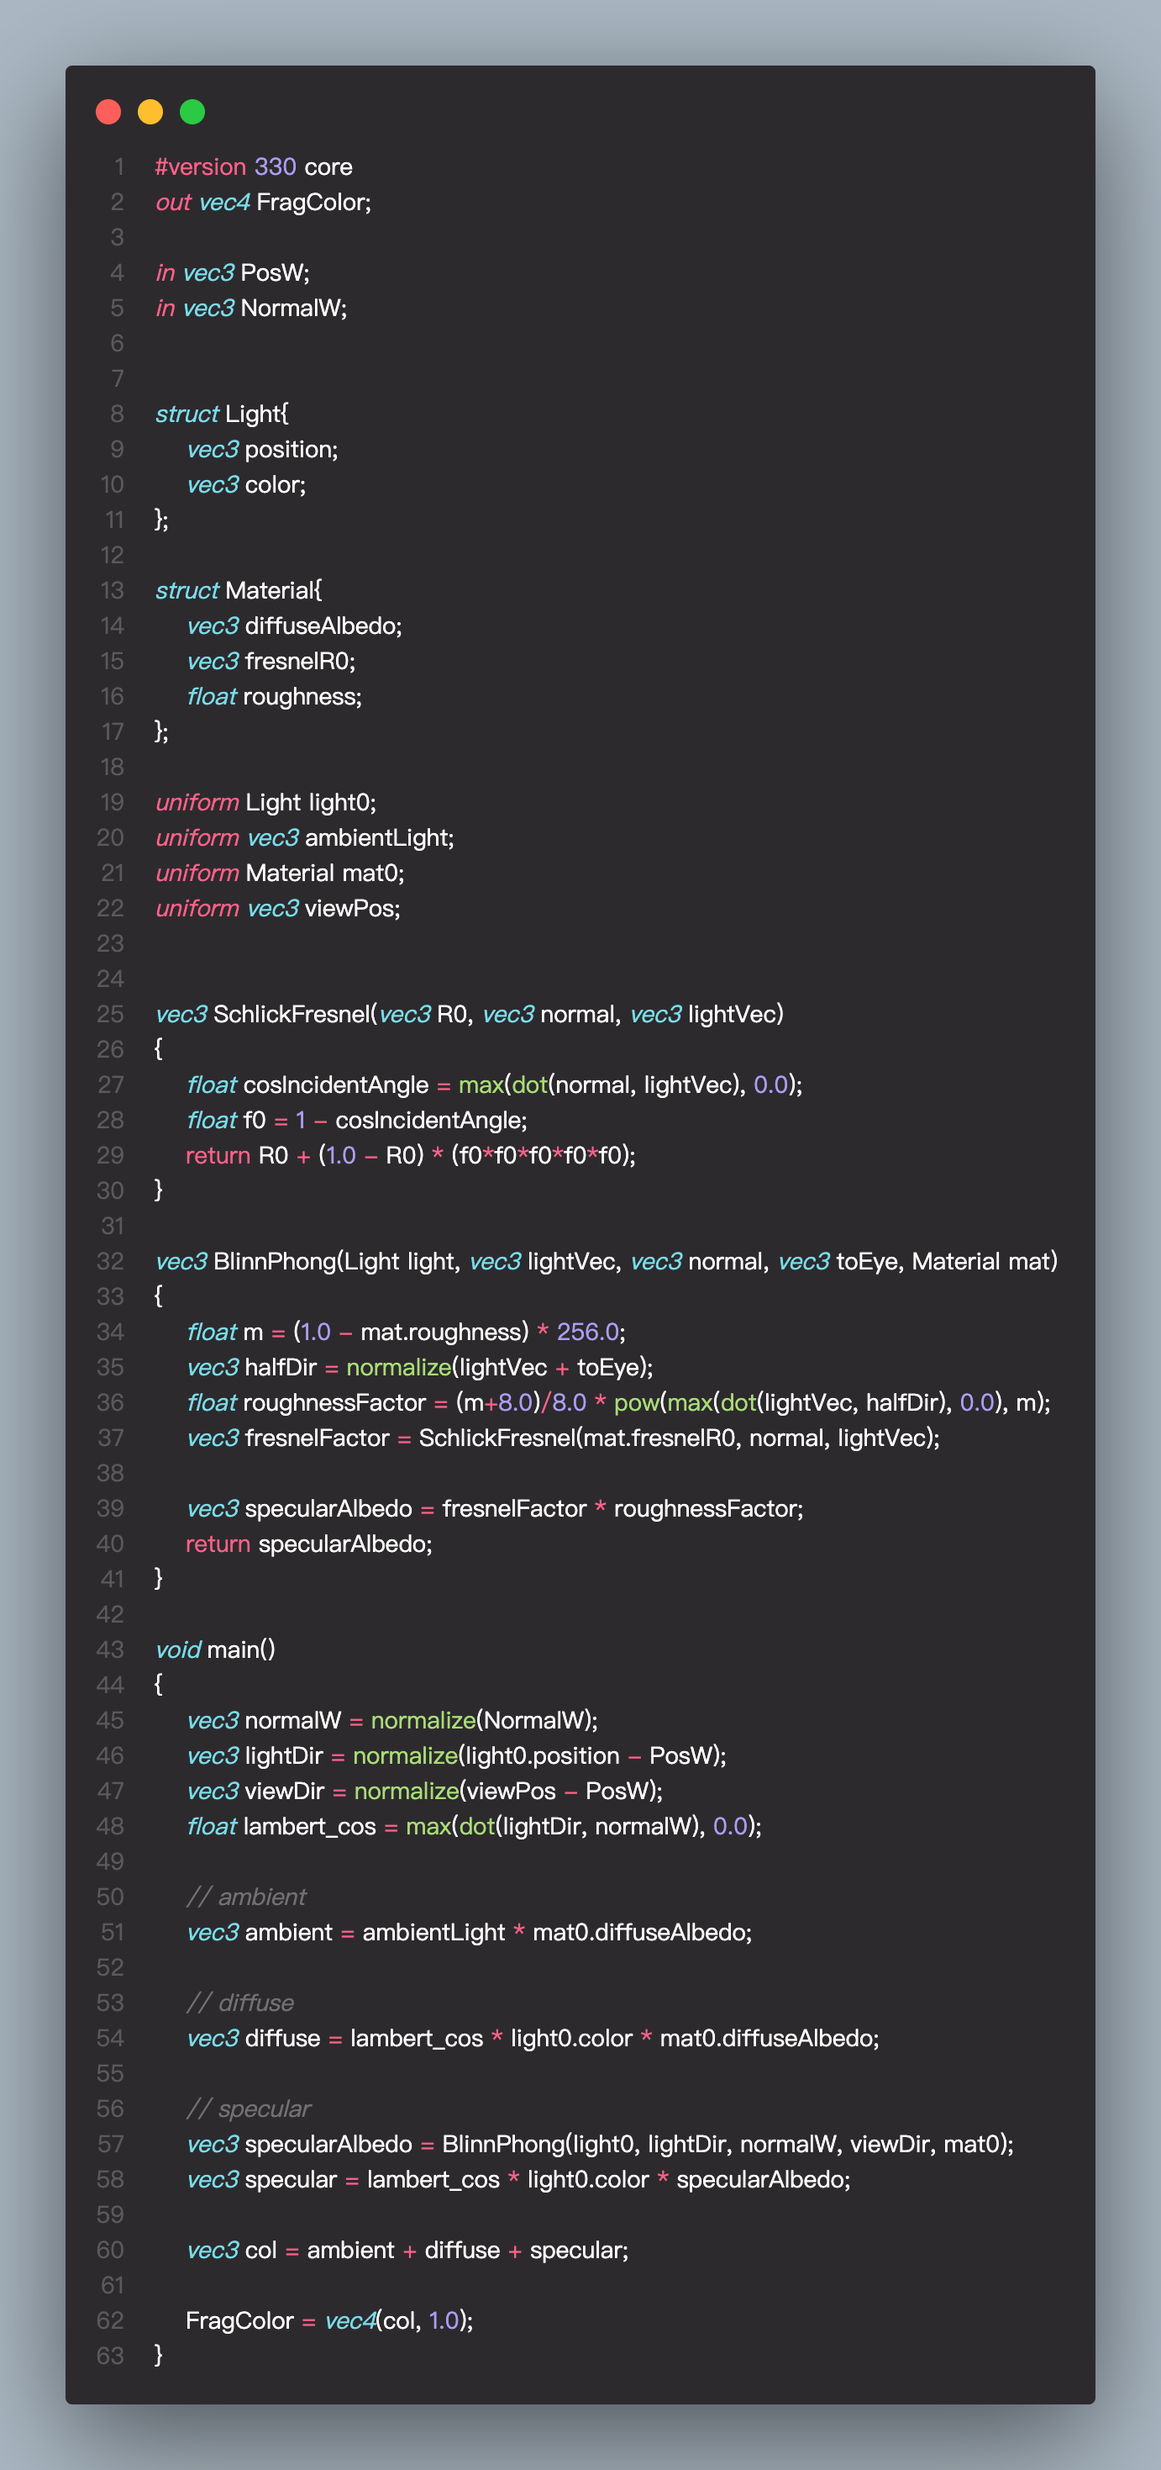
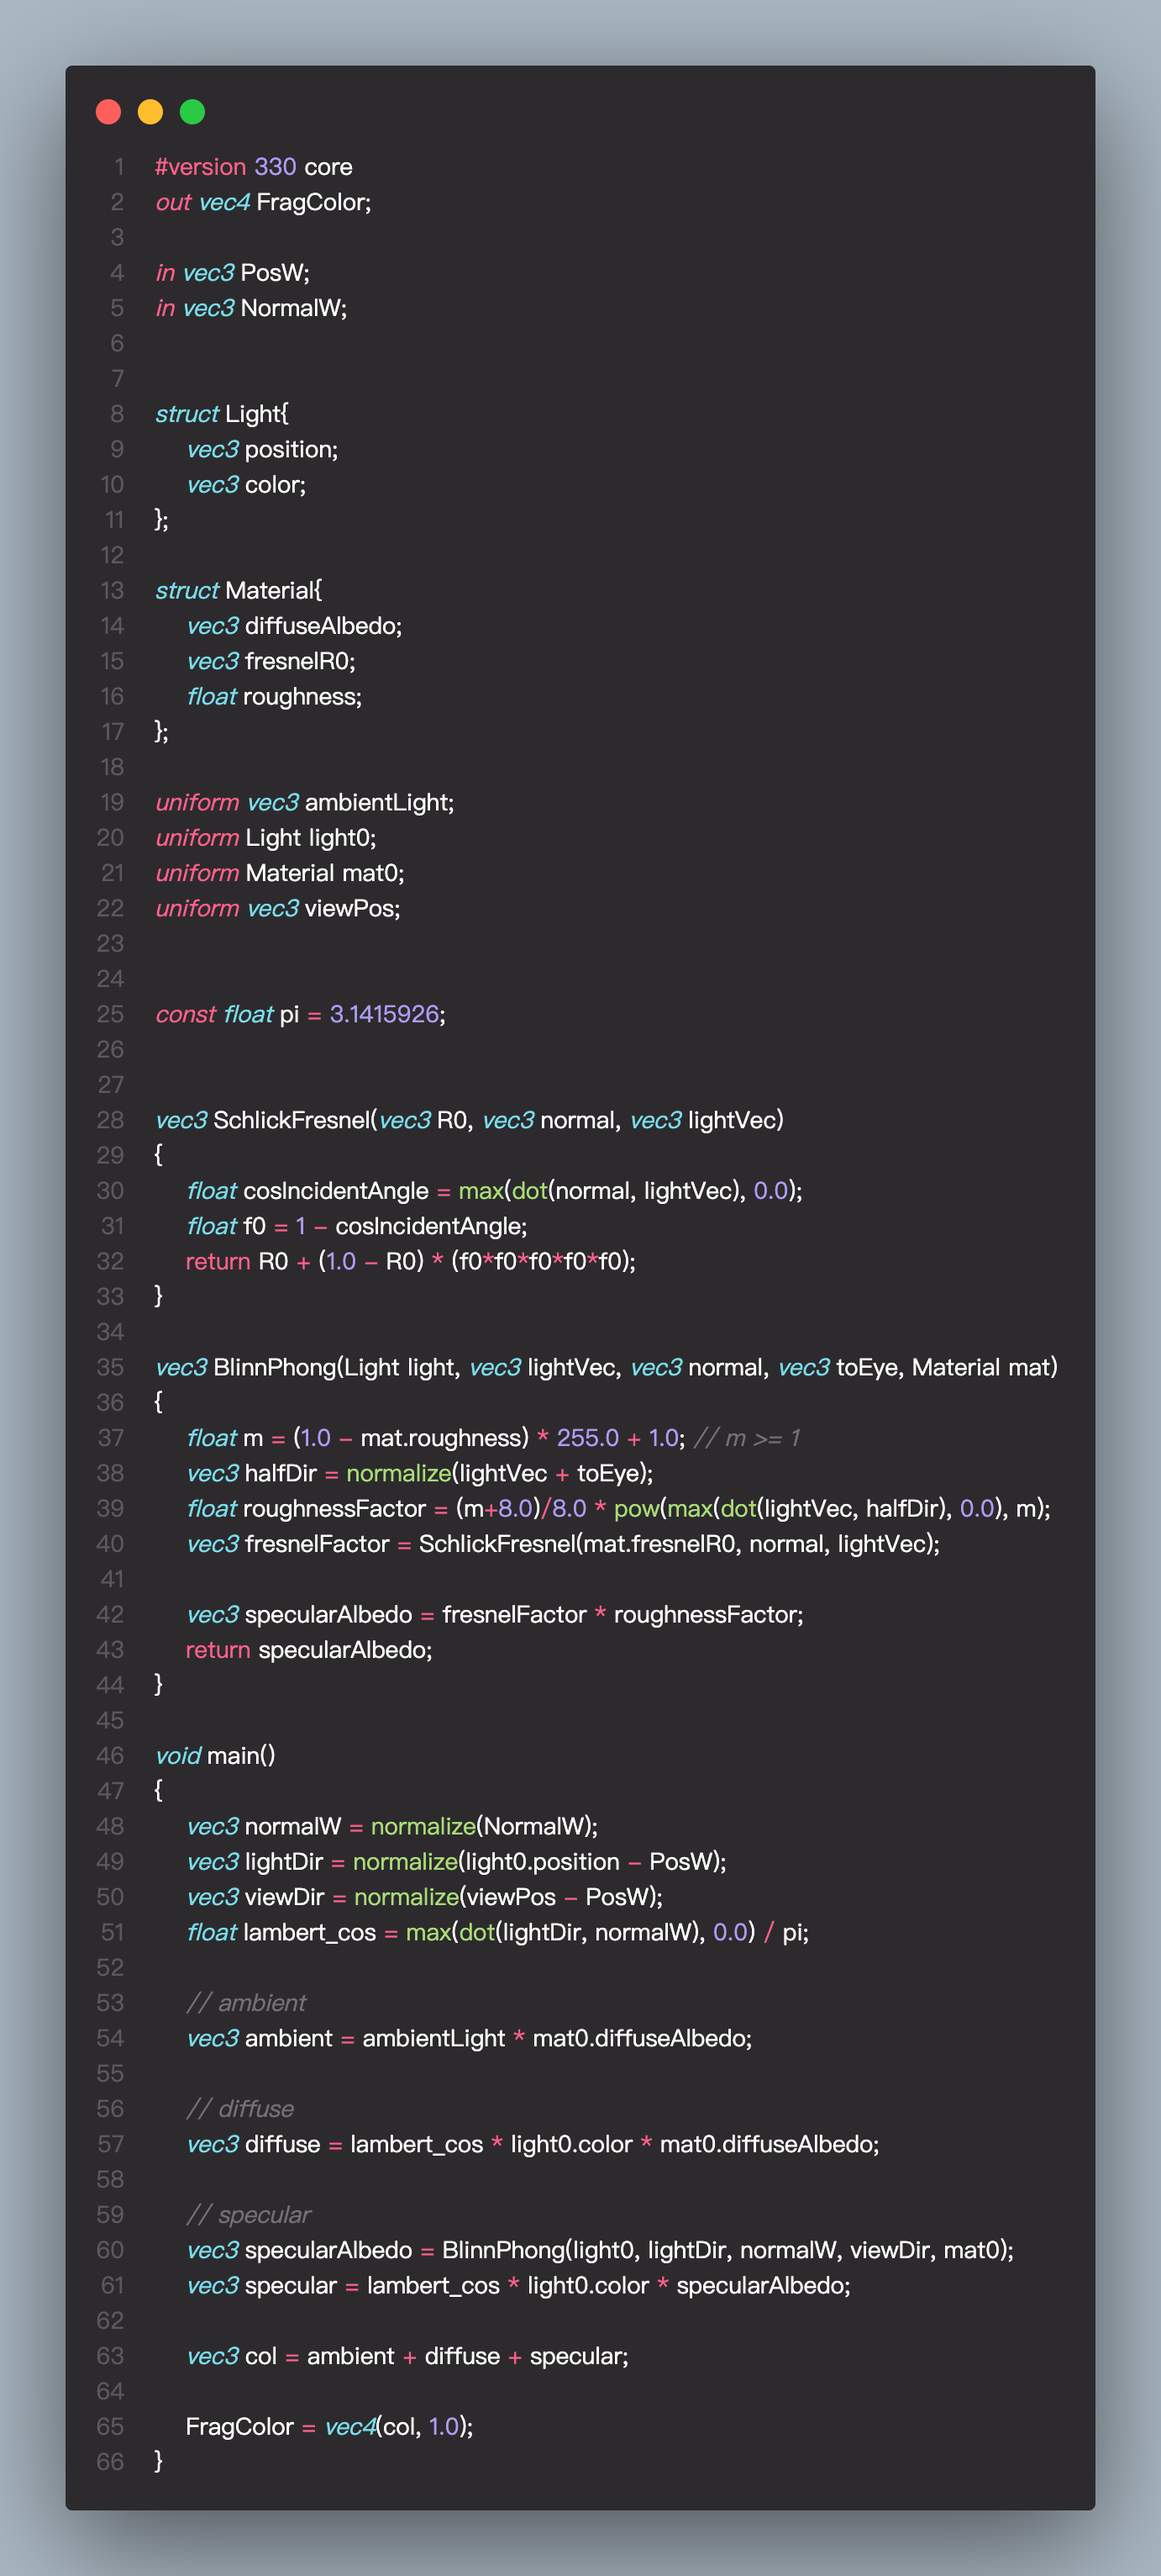
fix：blinn phong改良

diff --git a/LearnOpenGL-CN/OpenGL.md b/LearnOpenGL-CN/OpenGL.md
@@ -773,7 +773,14 @@ $$
 
   - <img src="https://cdn.jsdelivr.net/gh/shuaigougou5545/blog-image/img/202308191057455.png" alt="截屏2023-08-19 10.57.16" style="zoom:50%;" />
 
-  - 如上图👆：m这里代表光泽度，也就是`(1 - roughness) * 256`，roughness是0～1的浮点小数，一般会乘上256.f，得到这里的m
+  - 如上图👆：m这里代表光泽度，也就是`(1.0 - roughness) * 255.0 + 1.0`，roughness是0～1的浮点小数，一般会乘上256.f，得到这里的m
+
+
+BlinnPhong需要注意的点：
+
+- 朗伯余弦定理：朗伯余弦定理需要除以归一化常数`pi`，使光亮守恒，因为反射的光应该均匀的分到所有可能的方向，保证：发射的能量 = 吸收的能量 + 反射的能量
+  - 如果不除，整体光亮会过量
+- m：这里m的计算是`m = (1.0 - roughness * 255.0 + 1.0)`，是保证了m的范围[1, ∞]，m严格来说跟光泽度有关系，m叫做“粗糙度指数”，m决定高光的分布范围，m越大，高光越亮越集中
 
 #### （2）特殊：法向量的转换
 
@@ -804,6 +811,8 @@ $$
 $$
 M_n = (M^{-1})^T
 $$
+
+
 
 ## C1 调试
 
